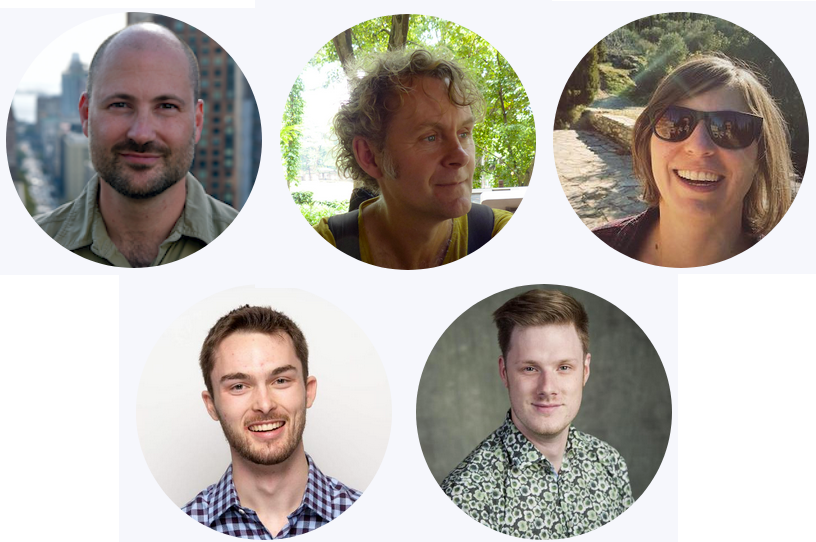
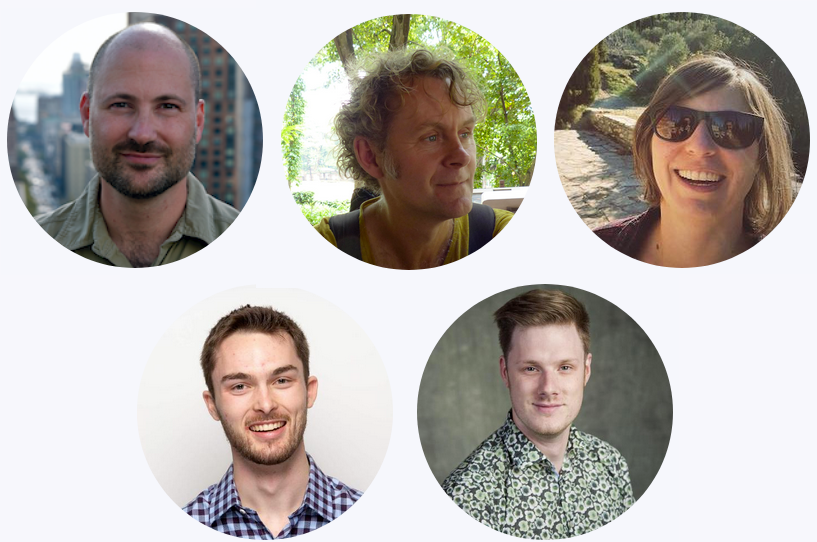
Address Stef's comments: Fix headshots background. Clean up quote and add attribution. Move summarizing para. Remove section caps for speakers

diff --git a/content/blog/2021-03-09-commcall-stats/index.md b/content/blog/2021-03-09-commcall-stats/index.md
@@ -37,21 +37,20 @@ Mark Padgham then briefly described the two main tools intended for use by devel
 The call then moved on to its main intention of being a "hands-on" demonstration of how these packages can be used in practice, by first passing to [John Sakaluk](https://www.psychology.uwo.ca/people/faculty/profiles/sakaluk.html), who has developed the [`dySEM` package](https://jsakaluk.github.io/dySEM/) for his own use, and would now like to refine and extend the package for more general use, ideally working towards submission to our peer-review system.
 John described the usefulness of [`autotest`](https://ropenscilabs.github.io/autotest/) in explicitly revealing aspects of his code which could be improved for more general usage, and in particular that,
 
-> one of the things that's really useful for me here as a self taught and kind of newbie developer is I find myself adding to my kind of package development list almost every time that I open it up in terms of wish listing new functionality. And what's really nice about this [`autotest` tool] is this can help me kind of set some targets for priority items just for kind of tightening up the programming of the existing functions.
+> one of the things that's really useful for me here, as a self taught and newbie developer, is I find myself adding to my package development list almost every time that I open it up in terms of wish listing new functionality. And what's really nice about this [`autotest` tool] is this can help me set some targets for priority items just for tightening up the programming of the existing functions.  -- **John Sakaluk**
 
 [Alex Hayes](https://www.alexpghayes.com/) then described his experiences from initial review of his [`fastadi` package](https://github.com/RoheLab/fastadi), and of the role standards can play in software improvement and assessment, noting in particular the usefulness of standards as contextual "touchpoints" for review.
 
-Here we've organized the video content by speakers and questions, including links to the specific time points in the [video](https://vimeo.com/518761488) as well as to questions and answers in the [collaborative notes document](https://docs.google.com/document/d/1o933nG1ZW2Qf8p7FdQxn8wOkk9qoBINL1fx3FlIFSJU/). 
-We hope that by preparing this summary, more people will be able to benefit from this information.
-
-
 ## Summarizing the community call
+
+Here we've organized the video content by speakers and questions, including links to the specific time points in the [video](https://vimeo.com/518761488) as well as to questions and answers in the [collaborative notes document](https://docs.google.com/document/d/1o933nG1ZW2Qf8p7FdQxn8wOkk9qoBINL1fx3FlIFSJU/). We hope that by preparing this summary, more people will be able to benefit from this information.
+
 
 ### Speakers
 
-- **Anna Krystalli - The Editorial Perspective** ([video](https://vimeo.com/518761488#t=4m00s))
+- **Anna Krystalli - The editorial perspective** ([video](https://vimeo.com/518761488#t=4m00s))
 
-- **Noam Ross - Project Introduction** ([video](https://vimeo.com/518761488#t=7m01s))
+- **Noam Ross - Project introduction** ([video](https://vimeo.com/518761488#t=7m01s))
 
 - **Mark Padgham - Introducing autotest and srr packages** ([video](https://vimeo.com/518761488#t=12m31s))
 
@@ -59,7 +58,7 @@ We hope that by preparing this summary, more people will be able to benefit from
 
 - **Alex Hayes - Using srr while preparing a package for review** ([video](https://vimeo.com/518761488#t=31m23s))
 
-- **Anna Kyrstalli - Moderates Questions** ([video](https://vimeo.com/518761488#t=38m47s))
+- **Anna Kyrstalli - Moderates questions** ([video](https://vimeo.com/518761488#t=38m47s))
 
 
 ### Questions
